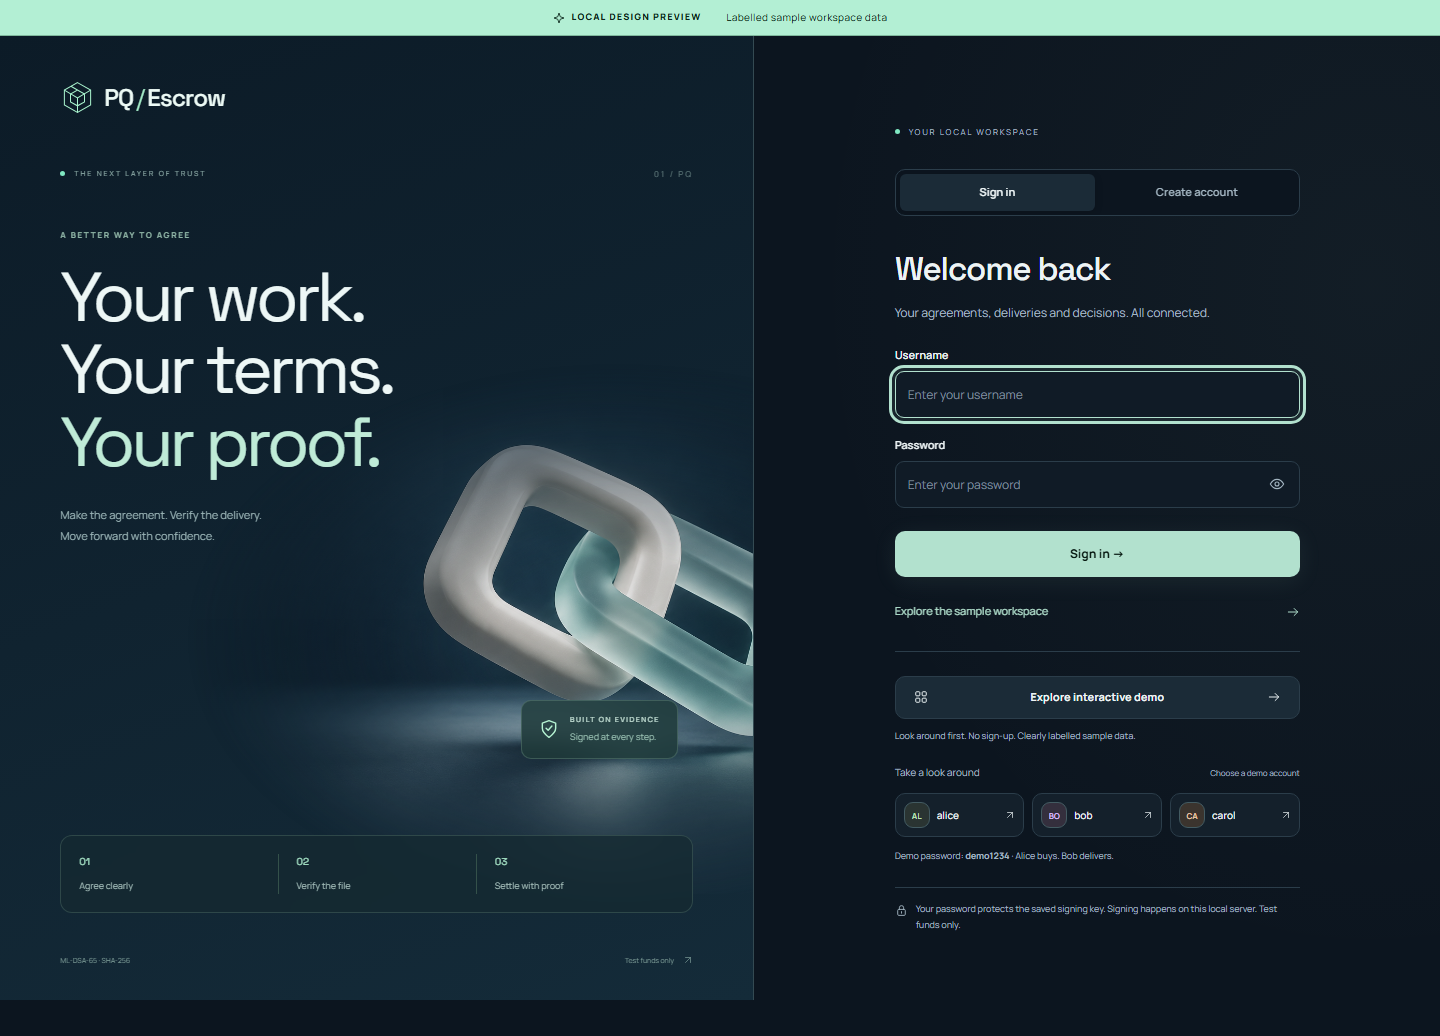
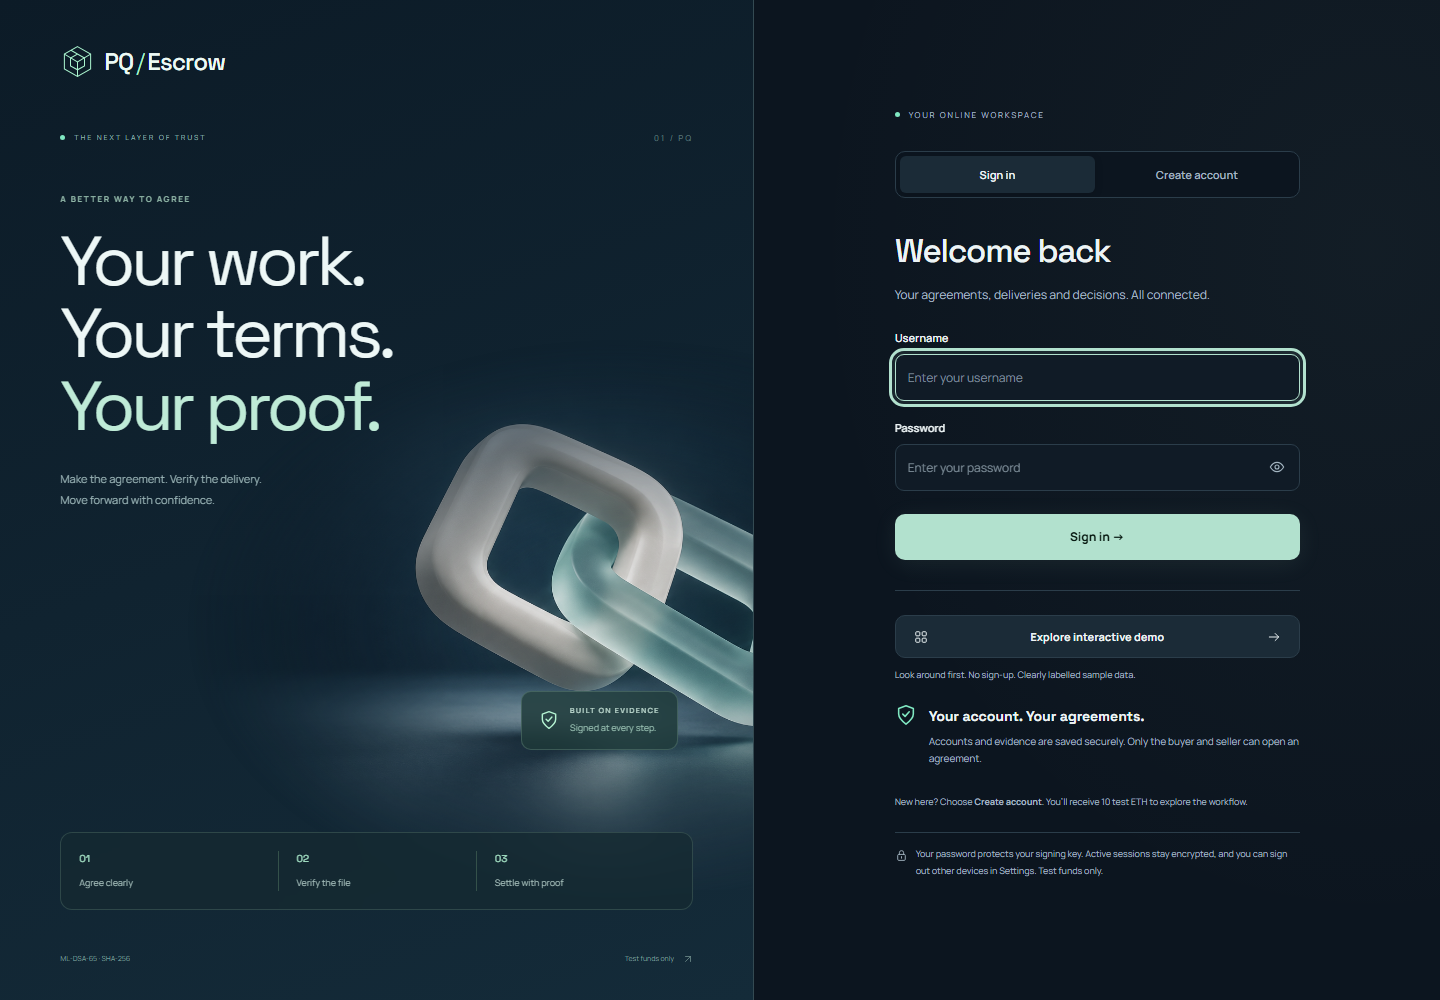
Record successful production prototype verification

diff --git a/docs/PROTOTYPE-VERIFICATION.md b/docs/PROTOTYPE-VERIFICATION.md
@@ -36,3 +36,28 @@ using the same hosted database service; the final separate run passed.
 
 Sample screenshots and machine-readable results are in `docs/prototype-checks/`.
 These checks establish an educational prototype, not a real-money custody audit.
+
+## Public production verification
+
+Vercel deployed application commit `c2282380dadc8278e60eda8707087e3c33f9b352`
+from GitHub `main` to `https://pq-escrow.vercel.app`, with state **READY** and
+the production alias assigned. The old release remains available on the rollback
+branch documented in `PROTOTYPE.md`.
+
+Both browser suites then passed against that public address:
+
+- The real account workflow repeated registration, 1 MiB reference hashing,
+  wrong-file rejection, delivery/download with matching SHA-256, offline decision,
+  settlement, claim, signed-bundle verification, private notes, CSV, inbox,
+  profiles and session revocation. No browser JavaScript errors occurred.
+- The public demo passed its tour and destination highlight, wizard, exact
+  statistics, chart controls, CSV and appearance checks across all four viewport
+  widths. No server POSTs or browser JavaScript errors occurred. Image readiness
+  is awaited explicitly so the screenshot check also covers assets loading over
+  the public network.
+
+Machine-readable results: `public-workflow-results.json` and
+`public-demo-results.json` in `docs/prototype-checks/`.
+The temporary local servers and isolated browser-test schema were removed.
+Desktop/source copies and the ZIP include the release; local user data was
+preserved and deployment secrets were excluded.
